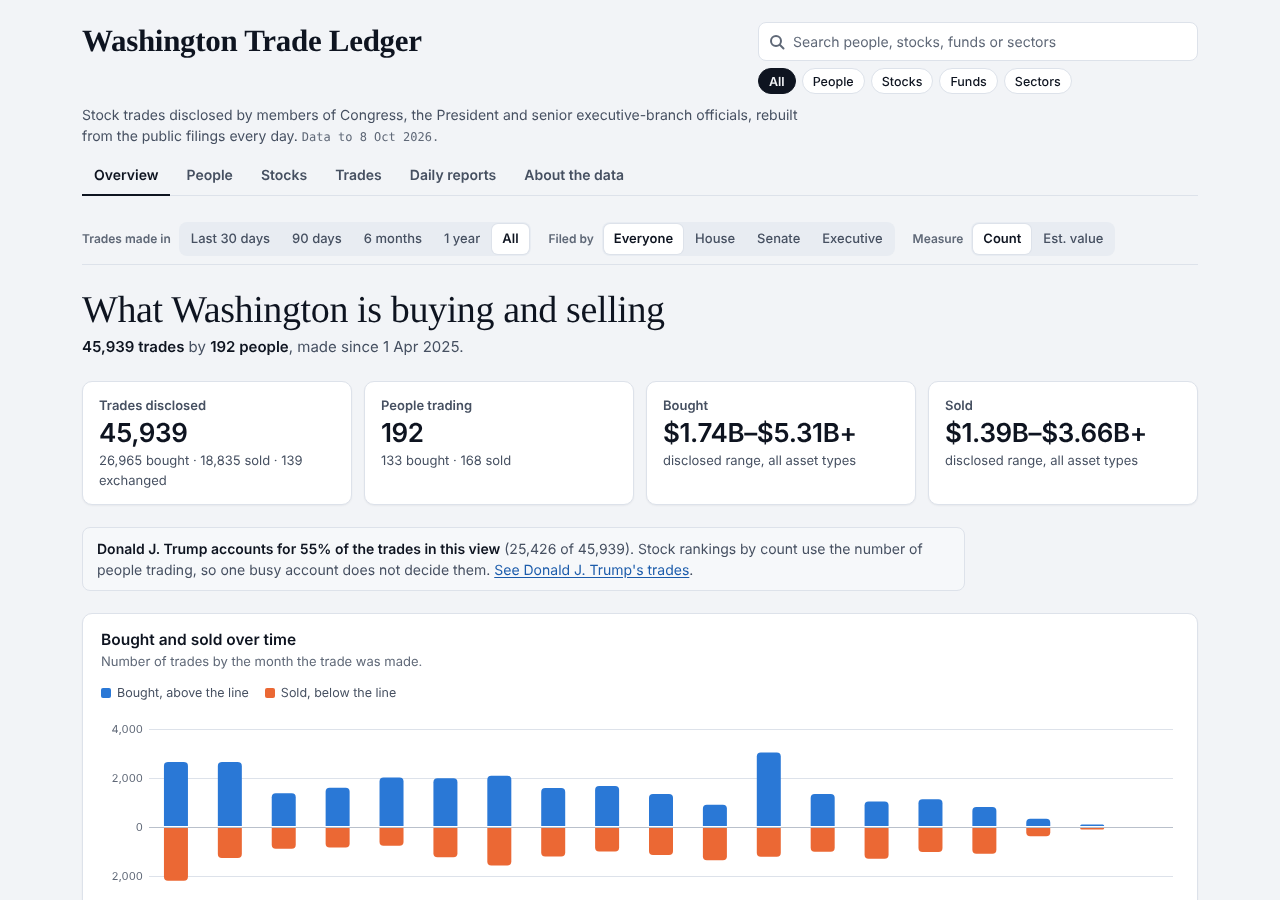
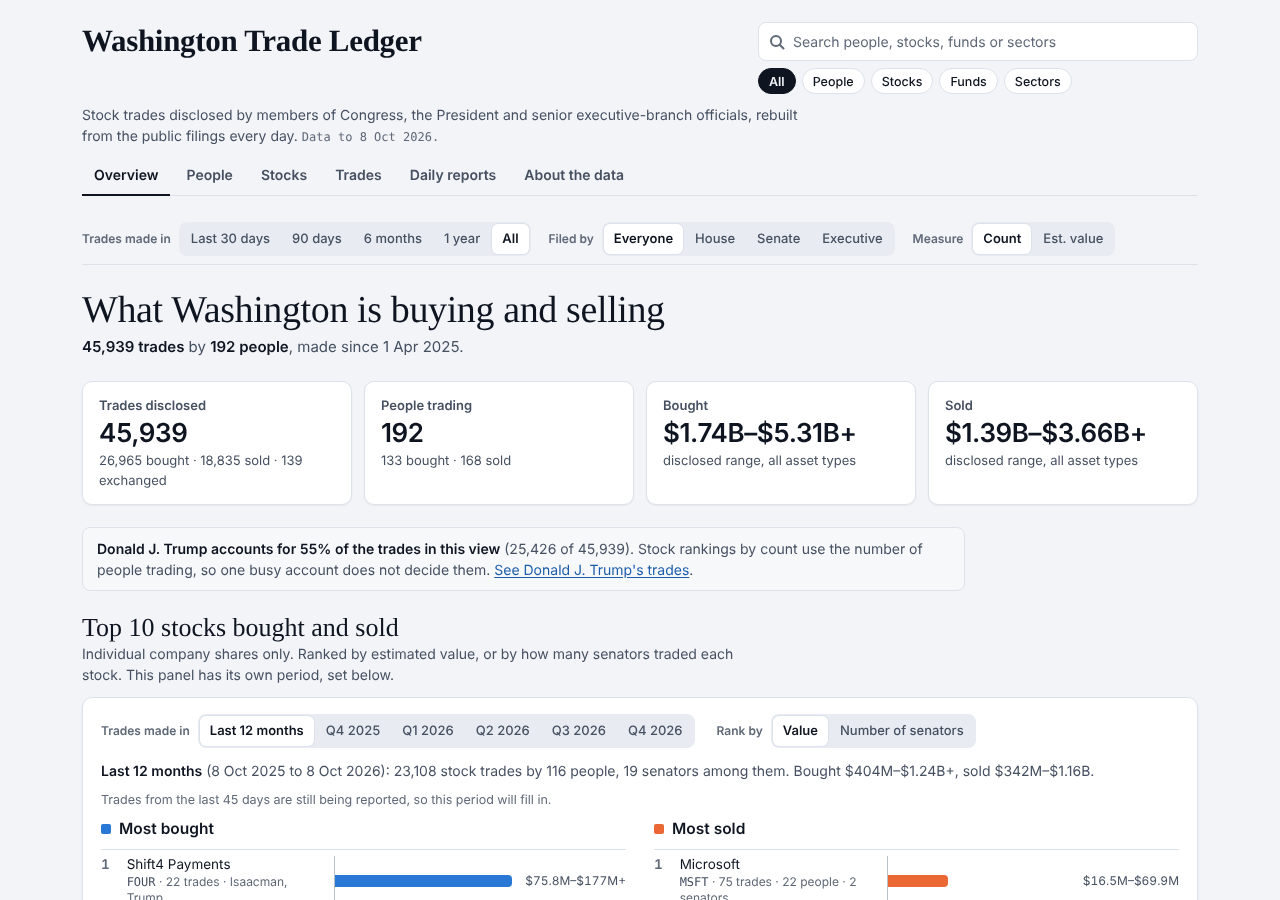
Add a top 10 stocks bought and sold panel, sliceable by quarter
The Overview now opens with the ten stocks most bought and the ten most sold,
for the last 12 months or any of the last five quarters. Each list can be
ranked by estimated value or by how many senators traded the stock, and shows
who traded it. The senator ranking switches off when Filed by is House or
Executive.

Claude-Session: https://claude.ai/code/session_013GWMvfTC58cpv7kBUJFEAY

Changed region(s): [[0.0938, 0.8089, 0.875, 1.0], [0.0625, 0.6844, 0.5625, 0.7778], [0.8438, 0.9644, 0.9062, 0.9956]]

diff --git a/washington-trade-ledger/index.html b/washington-trade-ledger/index.html
@@ -275,6 +275,15 @@ th[aria-sort] .thb{color:var(--ink)}
   .bs .bar{height:8px}
 }
 .bs-more{align-self:flex-start;margin-top:6px}
+/* top 10 stocks panel */
+.t10-ctl{display:flex;flex-wrap:wrap;gap:10px 22px;align-items:center}
+.t10-ctl .fgroup{flex-wrap:wrap}
+.t10-body{display:flex;flex-direction:column;gap:10px}
+.t10-sum{font-size:14px;color:var(--ink-2)}
+.t10-sum b{color:var(--ink);font-weight:600}
+.t10 .bs-n{display:grid;grid-template-columns:1.9em minmax(0,1fr);align-items:baseline}
+.rk{font-weight:600;color:var(--muted);font-variant-numeric:tabular-nums}
+.seg button:disabled{opacity:.45;cursor:not-allowed}
 .fine{font-size:12.5px;color:var(--muted);max-width:90ch}
 
 /* person quick view */
@@ -812,6 +821,97 @@ async function savePdf(day, msg) {
 function vhead(title, sub, crumb) { return el("div", { class: "vhead" }, crumb || null, el("h1", { text: title }), sub ? el("p", { class: "sub" }, sub) : null); }
 const sectHead = (title, sub, more) => el("div", { class: "sect-h" }, el("div", null, el("h2", { text: title }), sub ? el("p", { text: sub }) : null), more || null);
 
+// \u2500\u2500\u2500\u2500\u2500\u2500\u2500\u2500\u2500\u2500\u2500\u2500\u2500\u2500\u2500\u2500\u2500\u2500\u2500\u2500\u2500\u2500\u2500\u2500\u2500\u2500\u2500\u2500\u2500\u2500\u2500\u2500\u2500\u2500\u2500\u2500\u2500\u2500\u2500\u2500\u2500\u2500\u2500\u2500\u2500\u2500\u2500\u2500\u2500\u2500\u2500\u2500\u2500\u2500\u2500\u2500\u2500 top 10 stocks bought and sold, by quarter
+const betweenCache = new Map();
+function rowsBetween(from, to, group = S.group) {        // trades made on days from..to (inclusive)
+  const key = from + "|" + to + "|" + group;
+  if (betweenCache.has(key)) return betweenCache.get(key);
+  const gi = group === "all" ? -1 : GI[group], out = [];
+  for (let i = 0; i < D.n; i++) {                          // rows are sorted newest trade first
+    const d = D.d[i];
+    if (d > to) continue;
+    if (d < from) break;
+    if (gi < 0 || D.g[i] === gi) out.push(i);
+  }
+  betweenCache.set(key, out);
+  return out;
+}
+function quarterWindows() {                                // the last 12 months, then four full quarters and the current one
+  if (D._quarters) return D._quarters;
+  const t = dt(D.today), y0 = t.getUTCFullYear(), q0 = Math.floor(t.getUTCMonth() / 3), dayOf = (y, m) => Math.round((Date.UTC(y, m, 1) - BASE) / 864e5);
+  const out = [{ key: "12m", label: "Last 12 months", title: fd(Math.max(D.start, D.today - 365)) + " to " + fd(D.today), from: Math.max(D.start, D.today - 365), to: D.today }];
+  for (let k = 4; k >= 0; k--) {
+    let y = y0, q = q0 - k; while (q < 0) { q += 4; y--; }
+    const from = dayOf(y, q * 3), end = dayOf(y, q * 3 + 3) - 1;
+    if (end < D.start) continue;
+    out.push({ key: y + "Q" + (q + 1), label: "Q" + (q + 1) + " " + y, title: fd(Math.max(from, D.start)) + " to " + fd(Math.min(end, D.today)),
+      from: Math.max(from, D.start), to: Math.min(end, D.today), partial: end > D.today });
+  }
+  return (D._quarters = out);
+}
+const lastName = p => { const w = p.name.replace(/,/g, "").split(" ").filter(x => !/^(Jr\.?|Sr\.?|II|III|IV)$/.test(x)); return w[w.length - 1] || p.name; };
+function topTen() {
+  const st = S.ui.top10 || (S.ui.top10 = { w: "12m", rank: "value" });
+  const wins = quarterWindows();
+  if (!wins.some(w => w.key === st.w)) st.w = "12m";
+  const senOK = S.group === "all" || S.group === "senate";
+  const body = el("div", { class: "t10-body" });
+  const segOf = (labelId, items, key) => el("div", { class: "seg", role: "group", "aria-labelledby": labelId }, items.map(it => el("button", {
+    type: "button", "aria-pressed": String(st[key] === it.key), title: it.title || null, disabled: it.off || null,
+    onclick: ev => { if (st[key] === it.key) return; st[key] = it.key; ev.currentTarget.parentNode.querySelectorAll("button").forEach(b => b.setAttribute("aria-pressed", String(b === ev.currentTarget))); draw(); } }, it.label)));
+  const draw = () => {
+    const w = wins.find(x => x.key === st.w), rank = senOK ? st.rank : "value";
+    const rows = rowsBetween(w.from, w.to).filter(i => D.cls[i] === 0), tot = total(rows);
+    const by = new Map();
+    for (const i of rows) {
+      const s = D.side[i]; if (s > 1) continue;
+      let e = by.get(D.a[i]); if (!e) by.set(D.a[i], e = { a: D.assets[D.a[i]], t: [newTally(), newTally()], sen: [newTally(), newTally()], pv: [new Map(), new Map()] });
+      add(e.t[s], i); e.pv[s].set(D.p[i], (e.pv[s].get(D.p[i]) || 0) + BMID[D.b[i]]);
+      if (D.g[i] === 1) add(e.sen[s], i);
+    }
+    const all = Array.from(by.values()), senTot = total(rows.filter(i => D.g[i] === 1));
+    const pick = side => {
+      const n = t => side ? t.ns : t.nb, v = t => side ? t.vs : t.vb, ppl = t => side ? t.ps : t.pb;
+      const list = rank === "value"
+        ? all.filter(e => n(e.t[side]) > 0).sort((x, y) => (v(y.t[side]) - v(x.t[side])) || (n(y.t[side]) - n(x.t[side])))
+        : all.filter(e => n(e.sen[side]) > 0).sort((x, y) => (ppl(y.sen[side]).size - ppl(x.sen[side]).size) || (v(y.sen[side]) - v(x.sen[side])) || (n(y.sen[side]) - n(x.sen[side])));
+      return list.slice(0, 10).map(e => ({ e, side, m: rank === "value" ? v(e.t[side]) : ppl(e.sen[side]).size }));
+    };
+    const lists = [pick(0), pick(1)], max = Math.max(1e-9, ...lists.flat().map(x => x.m));
+    const item = (x, k) => {
+      const a = x.e.a, s = x.side, t = x.e.t[s], sen = x.e.sen[s], senSet = s ? sen.ps : sen.pb, nT = s ? t.ns : t.nb, ppl = (s ? t.ps : t.pb).size;
+      // who traded it, biggest amount first: everyone in value mode when three or fewer, senators in senator mode
+      const who = Array.from(x.e.pv[s]).filter(([pi]) => rank === "value" || D.people[pi].group === "senate").sort((p1, p2) => p2[1] - p1[1]).map(([pi]) => lastName(D.people[pi]));
+      const names = who.length <= 3 ? who.join(", ") : who.slice(0, 2).join(", ") + " and " + (who.length - 2) + " more";
+      const facts = rank === "value"
+        ? [plural(nT, "trade"), ppl <= 3 ? names : plural(ppl, "person", "people"), ppl > 3 && senOK && senSet.size ? plural(senSet.size, "senator") : null]
+        : [names, plural(s ? sen.ns : sen.nb, "trade"), rangeOf(sen, s)];
+      return el("li", { class: "bs-i" },
+        el("div", { class: "bs-n" }, el("span", { class: "rk", text: String(k + 1) }), el("div", null, a.ticker ? el("a", { href: "#s-" + a.ticker, text: a.name }) : a.name,
+          el("small", null, a.ticker ? el("span", { class: "tk", text: a.ticker }) : null, (a.ticker ? " \u00b7 " : "") + facts.filter(Boolean).join(" \u00b7 ")))),
+        el("div", { class: "bs-b" }, el("span", { class: "bar " + (s ? "sell" : "buy"), style: "--w:" + (x.m / max).toFixed(4) })),
+        el("span", { class: "val" }, rank === "value" ? rangeOf(t, s) : plural(senSet.size, "senator"), rank === "value" ? el("span", { class: "sr", text: ", estimated " + fm(x.m) }) : null));
+    };
+    const col = side => el("div", { class: "bs-c" }, el("h3", null, el("i", { class: "sw " + (side ? "sell" : "buy") }), side ? "Most sold" : "Most bought"),
+      lists[side].length ? el("ol", { class: "bs-l t10" }, lists[side].map(item))
+        : el("p", { class: "empty", text: (rank === "value" ? (side ? "No stock sales" : "No stock purchases") : (side ? "No senator sold a stock" : "No senator bought a stock")) + " in " + (w.key === "12m" ? "the last 12 months" : w.label) + (w.partial ? " so far" : "") + "." }));
+    body.replaceChildren(...[
+      el("p", { class: "t10-sum" }, el("b", { text: w.key === "12m" ? "Last 12 months" : w.label + (w.partial ? " so far" : "") }), " (" + w.title + "): ",
+        tot.n ? plural(tot.n, "stock trade") + " by " + plural(tot.pa.size, "person", "people") + (senOK ? ", " + plural(senTot.pa.size, "senator") + " among them" : "") + ". Bought " + rangeOf(tot, 0) + ", sold " + rangeOf(tot, 1) + "." : "no stock trades disclosed yet."),
+      w.to > D.today - 45 ? el("p", { class: "fine", text: "Trades from the last 45 days are still being reported, so this period will fill in." }) : null,
+      rank === "senators" ? el("p", { class: "fine", text: "Senators trade far less often than the House or the President, so most stocks have one or two senators behind them; ties go to the larger amount. Names are the senators who traded." }) : null,
+      el("div", { class: "bs" }, col(0), col(1))].filter(Boolean));
+  };
+  const ctl = el("div", { class: "t10-ctl" },
+    el("div", { class: "fgroup" }, el("span", { class: "flabel", id: "t10-w", text: "Trades made in" }), segOf("t10-w", wins, "w")),
+    el("div", { class: "fgroup" }, el("span", { class: "flabel", id: "t10-r", text: "Rank by" }), segOf("t10-r", [{ key: "value", label: "Value" }, { key: "senators", label: "Number of senators", off: !senOK, title: senOK ? null : "No senators in view: choose Everyone or Senate under Filed by" }], "rank")));
+  if (!senOK) ctl.querySelectorAll('[aria-labelledby="t10-r"] button').forEach((b, j) => b.setAttribute("aria-pressed", String(j === 0)));
+  draw();
+  return el("section", { class: "sect", id: "top10" },
+    sectHead("Top 10 stocks bought and sold", "Individual company shares only. Ranked by estimated value, or by how many senators traded each stock" + (S.group === "all" ? "" : " \u00b7 " + GROUPS[S.group] + " only") + ". This panel has its own period, set below."),
+    el("div", { class: "fig" }, ctl, body));
+}
+
 function vOverview(root) {
   const rows = slice(), tot = total(rows), valueMode = S.measure === "value";
   root.append(vhead("What Washington is buying and selling", [el("b", { text: plural(tot.n, "trade") }), " by ", el("b", { text: plural(tot.pa.size, "person", "people") }), ", made " + periodWords() + (S.group === "all" ? "." : " \u00b7 " + GROUPS[S.group] + " only.")]));
@@ -829,6 +929,7 @@ function vOverview(root) {
     const p = D.people[topP[0]];
     root.append(el("p", { class: "note" }, el("b", { text: p.name + " accounts for " + Math.round(topP[1].n / tot.n * 100) + "% of the trades in this view" }), " (" + fi(topP[1].n) + " of " + fi(tot.n) + "). Stock rankings by count use the number of people trading, so one busy account does not decide them. ", el("a", { href: "#p-" + p.id, text: "See " + p.name + "'s trades" }), "."));
   }
+  root.append(topTen());
   root.append(timeFigure(rows, "Bought and sold over time"));
 
   // stocks

diff --git a/washington-trade-ledger/src/index.html b/washington-trade-ledger/src/index.html
@@ -267,6 +267,15 @@ th[aria-sort] .thb{color:var(--ink)}
   .bs .bar{height:8px}
 }
 .bs-more{align-self:flex-start;margin-top:6px}
+/* top 10 stocks panel */
+.t10-ctl{display:flex;flex-wrap:wrap;gap:10px 22px;align-items:center}
+.t10-ctl .fgroup{flex-wrap:wrap}
+.t10-body{display:flex;flex-direction:column;gap:10px}
+.t10-sum{font-size:14px;color:var(--ink-2)}
+.t10-sum b{color:var(--ink);font-weight:600}
+.t10 .bs-n{display:grid;grid-template-columns:1.9em minmax(0,1fr);align-items:baseline}
+.rk{font-weight:600;color:var(--muted);font-variant-numeric:tabular-nums}
+.seg button:disabled{opacity:.45;cursor:not-allowed}
 .fine{font-size:12.5px;color:var(--muted);max-width:90ch}
 
 /* person quick view */
@@ -802,6 +811,97 @@ async function savePdf(day, msg) {
 function vhead(title, sub, crumb) { return el("div", { class: "vhead" }, crumb || null, el("h1", { text: title }), sub ? el("p", { class: "sub" }, sub) : null); }
 const sectHead = (title, sub, more) => el("div", { class: "sect-h" }, el("div", null, el("h2", { text: title }), sub ? el("p", { text: sub }) : null), more || null);
 
+// ───────────────────────────────────────────────────────── top 10 stocks bought and sold, by quarter
+const betweenCache = new Map();
+function rowsBetween(from, to, group = S.group) {        // trades made on days from..to (inclusive)
+  const key = from + "|" + to + "|" + group;
+  if (betweenCache.has(key)) return betweenCache.get(key);
+  const gi = group === "all" ? -1 : GI[group], out = [];
+  for (let i = 0; i < D.n; i++) {                          // rows are sorted newest trade first
+    const d = D.d[i];
+    if (d > to) continue;
+    if (d < from) break;
+    if (gi < 0 || D.g[i] === gi) out.push(i);
+  }
+  betweenCache.set(key, out);
+  return out;
+}
+function quarterWindows() {                                // the last 12 months, then four full quarters and the current one
+  if (D._quarters) return D._quarters;
+  const t = dt(D.today), y0 = t.getUTCFullYear(), q0 = Math.floor(t.getUTCMonth() / 3), dayOf = (y, m) => Math.round((Date.UTC(y, m, 1) - BASE) / 864e5);
+  const out = [{ key: "12m", label: "Last 12 months", title: fd(Math.max(D.start, D.today - 365)) + " to " + fd(D.today), from: Math.max(D.start, D.today - 365), to: D.today }];
+  for (let k = 4; k >= 0; k--) {
+    let y = y0, q = q0 - k; while (q < 0) { q += 4; y--; }
+    const from = dayOf(y, q * 3), end = dayOf(y, q * 3 + 3) - 1;
+    if (end < D.start) continue;
+    out.push({ key: y + "Q" + (q + 1), label: "Q" + (q + 1) + " " + y, title: fd(Math.max(from, D.start)) + " to " + fd(Math.min(end, D.today)),
+      from: Math.max(from, D.start), to: Math.min(end, D.today), partial: end > D.today });
+  }
+  return (D._quarters = out);
+}
+const lastName = p => { const w = p.name.replace(/,/g, "").split(" ").filter(x => !/^(Jr\.?|Sr\.?|II|III|IV)$/.test(x)); return w[w.length - 1] || p.name; };
+function topTen() {
+  const st = S.ui.top10 || (S.ui.top10 = { w: "12m", rank: "value" });
+  const wins = quarterWindows();
+  if (!wins.some(w => w.key === st.w)) st.w = "12m";
+  const senOK = S.group === "all" || S.group === "senate";
+  const body = el("div", { class: "t10-body" });
+  const segOf = (labelId, items, key) => el("div", { class: "seg", role: "group", "aria-labelledby": labelId }, items.map(it => el("button", {
+    type: "button", "aria-pressed": String(st[key] === it.key), title: it.title || null, disabled: it.off || null,
+    onclick: ev => { if (st[key] === it.key) return; st[key] = it.key; ev.currentTarget.parentNode.querySelectorAll("button").forEach(b => b.setAttribute("aria-pressed", String(b === ev.currentTarget))); draw(); } }, it.label)));
+  const draw = () => {
+    const w = wins.find(x => x.key === st.w), rank = senOK ? st.rank : "value";
+    const rows = rowsBetween(w.from, w.to).filter(i => D.cls[i] === 0), tot = total(rows);
+    const by = new Map();
+    for (const i of rows) {
+      const s = D.side[i]; if (s > 1) continue;
+      let e = by.get(D.a[i]); if (!e) by.set(D.a[i], e = { a: D.assets[D.a[i]], t: [newTally(), newTally()], sen: [newTally(), newTally()], pv: [new Map(), new Map()] });
+      add(e.t[s], i); e.pv[s].set(D.p[i], (e.pv[s].get(D.p[i]) || 0) + BMID[D.b[i]]);
+      if (D.g[i] === 1) add(e.sen[s], i);
+    }
+    const all = Array.from(by.values()), senTot = total(rows.filter(i => D.g[i] === 1));
+    const pick = side => {
+      const n = t => side ? t.ns : t.nb, v = t => side ? t.vs : t.vb, ppl = t => side ? t.ps : t.pb;
+      const list = rank === "value"
+        ? all.filter(e => n(e.t[side]) > 0).sort((x, y) => (v(y.t[side]) - v(x.t[side])) || (n(y.t[side]) - n(x.t[side])))
+        : all.filter(e => n(e.sen[side]) > 0).sort((x, y) => (ppl(y.sen[side]).size - ppl(x.sen[side]).size) || (v(y.sen[side]) - v(x.sen[side])) || (n(y.sen[side]) - n(x.sen[side])));
+      return list.slice(0, 10).map(e => ({ e, side, m: rank === "value" ? v(e.t[side]) : ppl(e.sen[side]).size }));
+    };
+    const lists = [pick(0), pick(1)], max = Math.max(1e-9, ...lists.flat().map(x => x.m));
+    const item = (x, k) => {
+      const a = x.e.a, s = x.side, t = x.e.t[s], sen = x.e.sen[s], senSet = s ? sen.ps : sen.pb, nT = s ? t.ns : t.nb, ppl = (s ? t.ps : t.pb).size;
+      // who traded it, biggest amount first: everyone in value mode when three or fewer, senators in senator mode
+      const who = Array.from(x.e.pv[s]).filter(([pi]) => rank === "value" || D.people[pi].group === "senate").sort((p1, p2) => p2[1] - p1[1]).map(([pi]) => lastName(D.people[pi]));
+      const names = who.length <= 3 ? who.join(", ") : who.slice(0, 2).join(", ") + " and " + (who.length - 2) + " more";
+      const facts = rank === "value"
+        ? [plural(nT, "trade"), ppl <= 3 ? names : plural(ppl, "person", "people"), ppl > 3 && senOK && senSet.size ? plural(senSet.size, "senator") : null]
+        : [names, plural(s ? sen.ns : sen.nb, "trade"), rangeOf(sen, s)];
+      return el("li", { class: "bs-i" },
+        el("div", { class: "bs-n" }, el("span", { class: "rk", text: String(k + 1) }), el("div", null, a.ticker ? el("a", { href: "#s-" + a.ticker, text: a.name }) : a.name,
+          el("small", null, a.ticker ? el("span", { class: "tk", text: a.ticker }) : null, (a.ticker ? " · " : "") + facts.filter(Boolean).join(" · ")))),
+        el("div", { class: "bs-b" }, el("span", { class: "bar " + (s ? "sell" : "buy"), style: "--w:" + (x.m / max).toFixed(4) })),
+        el("span", { class: "val" }, rank === "value" ? rangeOf(t, s) : plural(senSet.size, "senator"), rank === "value" ? el("span", { class: "sr", text: ", estimated " + fm(x.m) }) : null));
+    };
+    const col = side => el("div", { class: "bs-c" }, el("h3", null, el("i", { class: "sw " + (side ? "sell" : "buy") }), side ? "Most sold" : "Most bought"),
+      lists[side].length ? el("ol", { class: "bs-l t10" }, lists[side].map(item))
+        : el("p", { class: "empty", text: (rank === "value" ? (side ? "No stock sales" : "No stock purchases") : (side ? "No senator sold a stock" : "No senator bought a stock")) + " in " + (w.key === "12m" ? "the last 12 months" : w.label) + (w.partial ? " so far" : "") + "." }));
+    body.replaceChildren(...[
+      el("p", { class: "t10-sum" }, el("b", { text: w.key === "12m" ? "Last 12 months" : w.label + (w.partial ? " so far" : "") }), " (" + w.title + "): ",
+        tot.n ? plural(tot.n, "stock trade") + " by " + plural(tot.pa.size, "person", "people") + (senOK ? ", " + plural(senTot.pa.size, "senator") + " among them" : "") + ". Bought " + rangeOf(tot, 0) + ", sold " + rangeOf(tot, 1) + "." : "no stock trades disclosed yet."),
+      w.to > D.today - 45 ? el("p", { class: "fine", text: "Trades from the last 45 days are still being reported, so this period will fill in." }) : null,
+      rank === "senators" ? el("p", { class: "fine", text: "Senators trade far less often than the House or the President, so most stocks have one or two senators behind them; ties go to the larger amount. Names are the senators who traded." }) : null,
+      el("div", { class: "bs" }, col(0), col(1))].filter(Boolean));
+  };
+  const ctl = el("div", { class: "t10-ctl" },
+    el("div", { class: "fgroup" }, el("span", { class: "flabel", id: "t10-w", text: "Trades made in" }), segOf("t10-w", wins, "w")),
+    el("div", { class: "fgroup" }, el("span", { class: "flabel", id: "t10-r", text: "Rank by" }), segOf("t10-r", [{ key: "value", label: "Value" }, { key: "senators", label: "Number of senators", off: !senOK, title: senOK ? null : "No senators in view: choose Everyone or Senate under Filed by" }], "rank")));
+  if (!senOK) ctl.querySelectorAll('[aria-labelledby="t10-r"] button').forEach((b, j) => b.setAttribute("aria-pressed", String(j === 0)));
+  draw();
+  return el("section", { class: "sect", id: "top10" },
+    sectHead("Top 10 stocks bought and sold", "Individual company shares only. Ranked by estimated value, or by how many senators traded each stock" + (S.group === "all" ? "" : " · " + GROUPS[S.group] + " only") + ". This panel has its own period, set below."),
+    el("div", { class: "fig" }, ctl, body));
+}
+
 function vOverview(root) {
   const rows = slice(), tot = total(rows), valueMode = S.measure === "value";
   root.append(vhead("What Washington is buying and selling", [el("b", { text: plural(tot.n, "trade") }), " by ", el("b", { text: plural(tot.pa.size, "person", "people") }), ", made " + periodWords() + (S.group === "all" ? "." : " · " + GROUPS[S.group] + " only.")]));
@@ -819,6 +919,7 @@ function vOverview(root) {
     const p = D.people[topP[0]];
     root.append(el("p", { class: "note" }, el("b", { text: p.name + " accounts for " + Math.round(topP[1].n / tot.n * 100) + "% of the trades in this view" }), " (" + fi(topP[1].n) + " of " + fi(tot.n) + "). Stock rankings by count use the number of people trading, so one busy account does not decide them. ", el("a", { href: "#p-" + p.id, text: "See " + p.name + "'s trades" }), "."));
   }
+  root.append(topTen());
   root.append(timeFigure(rows, "Bought and sold over time"));
 
   // stocks

diff --git a/washington-trade-ledger/tests/features.js b/washington-trade-ledger/tests/features.js
@@ -34,6 +34,17 @@ const ok = (cond, msg) => { (cond ? out : fail).push((cond ? 'ok   ' : 'FAIL ') 
     ok(await p.title() === 'Washington Trade Ledger', T + 'title');
     await overflow('overview');
     await shot('overview');
+    // top 10 stocks bought and sold: last 12 months by default, one button per quarter, ranked by value or by senators
+    const t10 = await p.evaluate(() => { const s = document.querySelector('#top10'); return s && { wins: s.querySelectorAll('[aria-labelledby="t10-w"] button').length, b: s.querySelectorAll('.bs-c')[0].querySelectorAll('.bs-i').length, sd: s.querySelectorAll('.bs-c')[1].querySelectorAll('.bs-i').length, pressed: s.querySelector('[aria-labelledby="t10-w"] button[aria-pressed="true"]').textContent }; });
+    ok(t10 && t10.wins === 6 && t10.b === 10 && t10.sd === 10 && t10.pressed === 'Last 12 months', T + 'top 10 panel ' + JSON.stringify(t10));
+    await p.click('#top10 [aria-labelledby="t10-w"] button:text("Q1 2026")'); await p.waitForTimeout(100);
+    await p.click('#top10 [aria-labelledby="t10-r"] button:text("Number of senators")'); await p.waitForTimeout(100);
+    const t10b = await p.evaluate(() => ({ sum: document.querySelector('#top10 .t10-sum').textContent, first: (document.querySelector('#top10 .bs-c .val') || {}).textContent, n: document.querySelectorAll('#top10 .bs-i').length }));
+    ok(/^Q1 2026/.test(t10b.sum) && /senator/.test(t10b.first || '') && t10b.n > 0, T + 'quarter and senator ranking ' + JSON.stringify(t10b));
+    await shot('top10', { fullPage: false });
+    await p.click('#f-group-house'); await p.waitForTimeout(250);
+    ok(await p.$eval('#top10 [aria-labelledby="t10-r"] button:nth-child(2)', b => b.disabled), T + 'senator ranking switched off for House only');
+    await p.click('#f-group-all'); await p.waitForTimeout(250);
     // scope chips under the search box
     const scopes = await p.$$eval('#q-scopes .chip', a => a.map(x => [x.textContent, x.getAttribute('aria-pressed')]));
     ok(scopes.length === 5 && scopes[0][1] === 'true', T + 'scope chips ' + JSON.stringify(scopes));

diff --git a/washington-trade-ledger/README.md b/washington-trade-ledger/README.md
@@ -5,12 +5,15 @@ Stock trades disclosed by members of Congress, the President and senior executiv
 **Live site:** https://ananyasimlai-sys.github.io/asimlai-ai/washington-trade-ledger/
 (it appears once GitHub Pages is switched on; see [Publishing](#publishing-one-time-setup))
 
-| Overview | What one person bought and sold | Search chips |
-|---|---|---|
-| ![Overview](docs/overview.png) | ![Quick view](docs/quick-view.png) | ![Search](docs/search.png) |
+| Overview | Top 10 stocks, by quarter |
+|---|---|
+| ![Overview](docs/overview.png) | ![Top 10 stocks bought and sold](docs/top10.png) |
+| **What one person bought and sold** | **Search chips** |
+| ![Quick view](docs/quick-view.png) | ![Search](docs/search.png) |
 
 ## What's on the site
 
+- **Top 10 stocks bought and sold**: at the top of the Overview, the ten stocks most bought and the ten most sold in the last 12 months or in any single quarter, ranked by estimated value or by how many senators traded them, with who traded each one.
 - **Overview**: trades bought and sold over time, the most traded stocks, stocks with more buyers than sellers (and the reverse), the most active people, the latest disclosures, and breakdowns by sector, asset type, trade size, owner, party and branch.
 - **Most active people**: select a name to open a clean view of what that person bought and what they sold, ranked by size, with the disclosed amounts and number of trades.
 - **People, Stocks, Trades**: sortable lists. Every trade can be searched, filtered and downloaded as CSV. Each person and stock has its own page.
